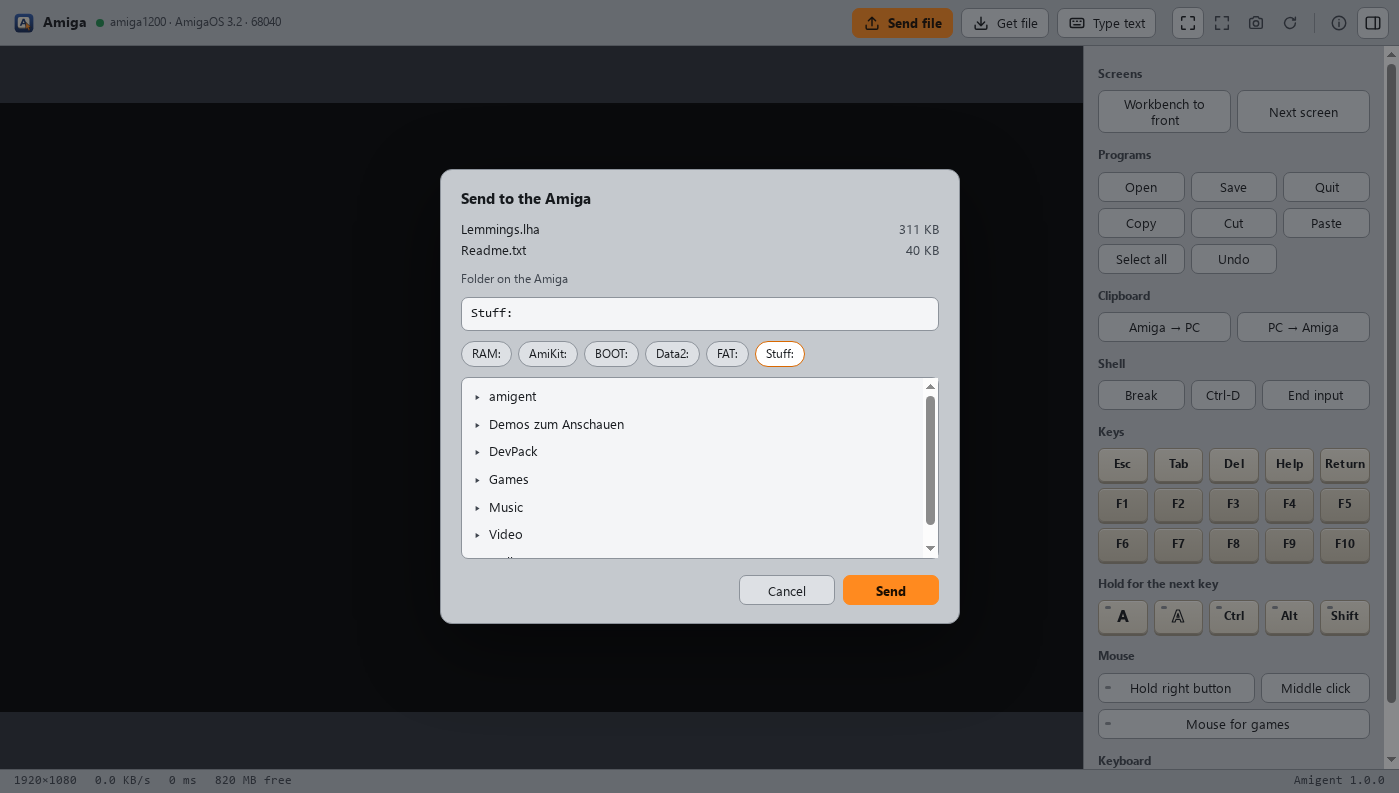
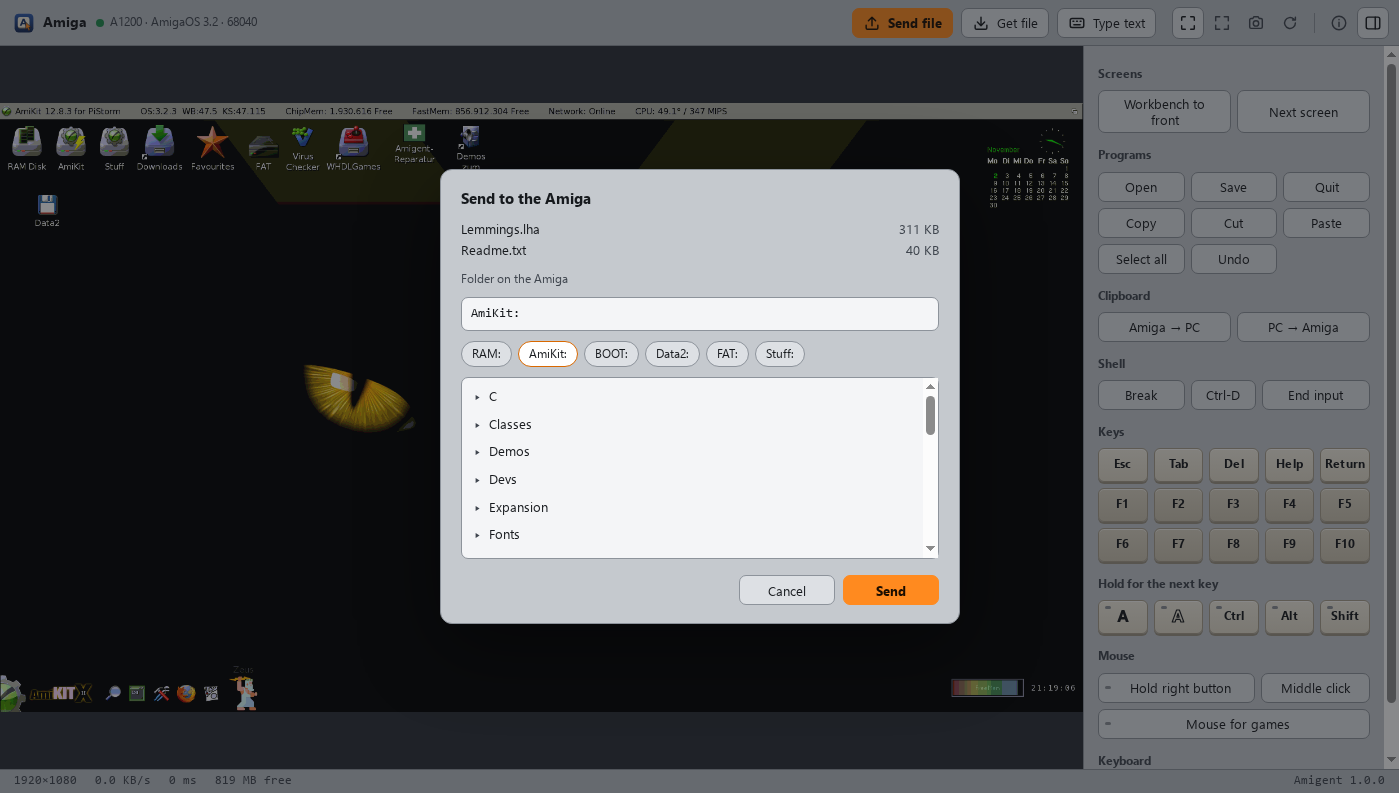
Docs for 1.0.0: installation for Windows, macOS and Linux, amiga_find, screenshots without private details

diff --git a/docs/GUIDE.md b/docs/GUIDE.md
@@ -17,47 +17,91 @@ on the Amiga.
 
 ## Installation by hand
 
+### On the Amiga
+
 Copy [`amiga/bin/amigentd`](../amiga/bin/amigentd) to the Amiga, or unpack
 `amigent-1.0.0.lha` from the releases. If the Amiga has a browser or wget but
-no other way in, `amigent-setup --serve` offers both builds on the network for
-30 minutes and prints the address to open. Under WSL it uses Windows Python
-for this, because the network does not reach servers inside WSL. Then start
-it: double-click the icon, or `amigentd SETUP` in a Shell (`amigentd.000 SETUP`
-on a 68000). Then on the PC, in the cloned repository:
+no other way in, `amigent-setup --serve` (see below) offers both builds on the
+network for 30 minutes and prints the address to open. Then start it:
+double-click the icon, or `amigentd SETUP` in a Shell (`amigentd.000 SETUP` on a
+68000).
+
+### Windows
+
+Python 3.10 or newer from python.org or `winget install Python.Python.3.13`, and
+Git with `winget install Git.Git`. In a terminal (PowerShell):
+
+```powershell
+git clone https://github.com/akustikrausch/amigent
+```
+
+```powershell
+cd amigent; py -m venv .venv; .venv\Scripts\pip install -e .
+```
+
+```powershell
+.venv\Scripts\amigent-setup
+```
+
+```powershell
+.venv\Scripts\amigent-viewer --install
+```
+
+The MCP server is `.venv\Scripts\amigent-server.exe` with its full path. Inside
+WSL the Linux steps below apply, and `--install` still puts Amigent into the
+Windows Start menu; `--serve` then runs its server in Windows Python, because the
+network does not reach servers inside WSL.
+
+### macOS
+
+Python 3.10 or newer with `brew install python` or from python.org; git comes
+with `xcode-select --install`. In Terminal:
 
 ```bash
-python3 -m venv .venv
+git clone https://github.com/akustikrausch/amigent && cd amigent
 ```
 
 ```bash
-.venv/bin/pip install -e .
-```
-
-On Windows the second command is `.venv\Scripts\pip install -e .`. The commands
-below are in `.venv/bin` (`.venv\Scripts` on Windows); give the agent their full
-path.
-
-```bash
-amigent-setup 192.168.1.50
-```
-
-Without an address, `amigent-setup` searches your own /24 network. It copies
-`amigentd` and the scripts to the Amiga, adds `amigentd` to `S:User-Startup`,
-creates the key and, with `openssl` available, the certificate. It remembers the
-Amiga under a name, "Amiga" unless you give `--name A1200`.
-
-Register the MCP server with your agent:
-
-```bash
-claude mcp add amigent -- amigent-server
+python3 -m venv .venv && .venv/bin/pip install -e .
 ```
 
 ```bash
-codex mcp add amigent -- amigent-server
+.venv/bin/amigent-setup
 ```
 
-Other agents need the command `amigent-server`. With several Amigas, give each
-entry `AMIGENT_HOST` with the Amiga's name.
+```bash
+.venv/bin/amigent-viewer --install
+```
+
+The MCP server is `.venv/bin/amigent-server` with its full path. Allow Amigent
+access to the local network when macOS asks on its first start.
+
+### Linux
+
+As on macOS, with Python and git from the package manager. There is no
+`--install`; start the remote desktop with `.venv/bin/amigent-viewer`.
+
+### What setup does
+
+Without an address, `amigent-setup` searches your own /24 network; with one,
+for example `amigent-setup 192.168.1.50`, it goes straight there. It copies
+`amigentd` (the 68000 build on a 68000) and the scripts to the Amiga, adds
+`amigentd` to `S:User-Startup`, creates the key and, with `openssl` available,
+the certificate. It remembers the Amiga under a name, "Amiga" unless you give
+`--name A1200`.
+
+Register the MCP server with your agent, with the full path from above:
+
+```bash
+claude mcp add amigent -- /path/to/amigent/.venv/bin/amigent-server
+```
+
+```bash
+codex mcp add amigent -- /path/to/amigent/.venv/bin/amigent-server
+```
+
+Other agents need that command. With several Amigas, give each entry
+`AMIGENT_HOST` with the Amiga's name.
 
 ### When the address changes
 
@@ -94,6 +138,7 @@ set an address you tell it. A fixed address in the router saves the search.
 | `amiga_status`, `amiga_inventory` | memory, volumes, installed programs and versions |
 | `amiga_viewer` | open the remote desktop |
 | `amiga_restart`, `amiga_power` | restart, and mains power if a smart plug is set up |
+| `amiga_find` | find the Amiga again after its address changed, or set its address |
 
 Gadgets without a readable label, such as GadTools buttons or MUI gadgets, come
 with a small picture of each one and a number, so the agent can still click the
@@ -214,9 +259,8 @@ icon.
 ## Security
 
 - `amigentd` asks every connection for a key. `amigent-setup` makes one per
-  Amiga and stores it in `S:amigent.key` and in `~/.config/amigent/key-<address>`
-  on the PC. A wrong key costs a
-  one-second pause and closes the connection.
+  Amiga and stores it in `S:amigent.key` on the Amiga and in `~/.config/amigent/`
+  on the PC. A wrong key costs a one-second pause and closes the connection.
 - With `openssl` on the PC and AmiSSL on the Amiga, `amigentd` also accepts TLS
   on port 6802, and the PC accepts only the certificate `amigent-setup` made for
   that Amiga. Without it the connection is unencrypted, and someone who can read
@@ -229,9 +273,10 @@ Keep the Amiga in your home network and do not forward its ports.
 
 ## Building amigentd
 
-vbcc and the NDK are needed; AmiKit includes both. The AmigaDOS script
-[`amiga/build-amigentd`](../amiga/build-amigentd) builds it on the Amiga,
-`build-amigentd CPU 68000` the 68000 build. `scripts/make_release.py` packs the
+vbcc and the NDK are needed; AmiKit's DevPack includes both. The AmigaDOS
+script [`amiga/build-amigentd`](../amiga/build-amigentd) builds it on the Amiga
+in the folder with `amigentd.c`; `CPU 68000 TO amigentd.000` makes the 68000
+build, `DEVPACK Work:DevPack` points it to another DevPack folder. `scripts/make_release.py` packs the
 archive with LhA on the Amiga. Tests for the PC side: `python3 -m pytest -q`.
 
 ## Translations

diff --git a/README.md b/README.md
@@ -26,9 +26,11 @@ any moment.
 
 ## Installation
 
+### On the Amiga
+
 **1.** Copy [`amigentd`](amiga/bin/amigentd) to your Amiga, for example to
 `RAM:`. A browser, USB stick or SD card all work, or the PC offers it on the
-network (see the [FAQ](docs/FAQ.md)). Or take the archive with icon from the
+network (see the [FAQ](docs/FAQ.md)). Or take the archive with icons from the
 [releases](https://github.com/akustikrausch/amigent/releases).
 
 **2.** Start it in a Shell, or double-click its icon:
@@ -37,7 +39,9 @@ network (see the [FAQ](docs/FAQ.md)). Or take the archive with icon from the
 
 On a plain 68000, take `amigentd.000` instead.
 
-**3.** Paste this into your AI agent on the PC:
+### On the PC
+
+**3.** Paste this into your AI agent:
 
     Install Amigent from https://github.com/akustikrausch/amigent for me.
     If git or Python 3.10 or newer is missing on this computer, install it
@@ -49,11 +53,36 @@ On a plain 68000, take `amigentd.000` instead.
     --install so the remote desktop shows up as a program. Tell me if you
     need to be restarted.
 
-That's it. The Amiga is set up from the PC and Amigent starts with it from now
-on. You'll find **Amigent** in the Start menu or the Applications folder.
+That's it. The Amiga is set up from the PC, and Amigent starts with it from
+now on. The agent may ask you to confirm a few steps, and you may have to
+restart it once so it sees the new tools.
+
+#### Windows
+
+- Any AI agent with MCP works, for example the Claude desktop app with Claude
+  Code, or Codex. Amigent runs with Python for Windows or inside WSL.
+- Afterwards **Amigent** is in the Start menu, on the desktop and in
+  *Installed apps*, where it can be uninstalled like any program.
+- The connection is encrypted when `openssl` is available. Git for Windows,
+  which the agent installs anyway, brings it along.
+
+#### macOS
+
+- The agent installs Python through Homebrew or from python.org if needed;
+  git comes with the Xcode command line tools.
+- Afterwards **Amigent** is in `~/Applications`, signed and notarized, so
+  Spotlight and the Launchpad find it.
+- On its first start macOS asks whether Amigent may find devices on your local
+  network. Click *Allow*; without it Amigent cannot reach the Amiga.
+- In the remote desktop the Cmd key is the right Amiga key, and Cmd+V pastes.
+
+#### Linux
+
+Everything works the same, except that there is no program entry: the remote
+desktop opens as a Chrome or Edge window when you run `amigent-viewer`.
 
 No AI agent? The [guide](docs/GUIDE.md#installation-by-hand) has the same steps
-by hand.
+by hand, for each system.
 
 ## What you need
 

diff --git a/docs/FAQ.md b/docs/FAQ.md
@@ -31,7 +31,7 @@ which runs at low priority and keeps the line free.
 **Is the connection encrypted?**
 If `amigent-setup` found `openssl` on the PC and AmiSSL is installed on the
 Amiga, yes: it then says so at the end. Run it again after installing either one.
-On Windows without WSL, `openssl` comes with Git for Windows. `AMIGENT_TLS=off`
+On Windows, Amigent finds the `openssl` that comes with Git for Windows. `AMIGENT_TLS=off`
 switches encryption off for a test.
 
 **How do I add a second Amiga?**
@@ -127,7 +127,7 @@ WSL the shortcut starts your default distribution's Python, so Amigent must be
 installed there.
 
 **"amigentd refused the key" or "amigentd wants a key".**
-The key on the PC (`~/.config/amigent/key-<address>`, or `AMIGENT_KEY`) must
+The key on the PC (in `~/.config/amigent/`, or `AMIGENT_KEY`) must
 match `S:amigent.key` on the Amiga. Copy one over the other, or run `amigent-setup`
 again with `amigentd SETUP` running. Deleting `S:amigent.key` switches the key
 off.

diff --git a/CHANGELOG.md b/CHANGELOG.md
@@ -29,6 +29,11 @@ The first full release. Everything from the 0.x line, now considered stable:
   notarized; Cmd works as the Amiga key, Cmd+V pastes, Option types @ and €.
 - **Install in three steps**: one small file on the Amiga, or the `.lha`
   archive with icons, the rest done by `amigent-setup` over the network.
+  `amigent-setup --serve` offers amigentd to the Amiga's browser when there is
+  no other way to get it there.
+- **Restart without worry**: `amiga_restart` writes the disks first and, with a
+  smart plug set up, cycles the power by itself if the network does not come
+  back.
 - **Repair after system updates**: `amigent-repair` and a module per program.
 
 Tools for the AI agent beyond Shell and files: windows and gadgets as text with
